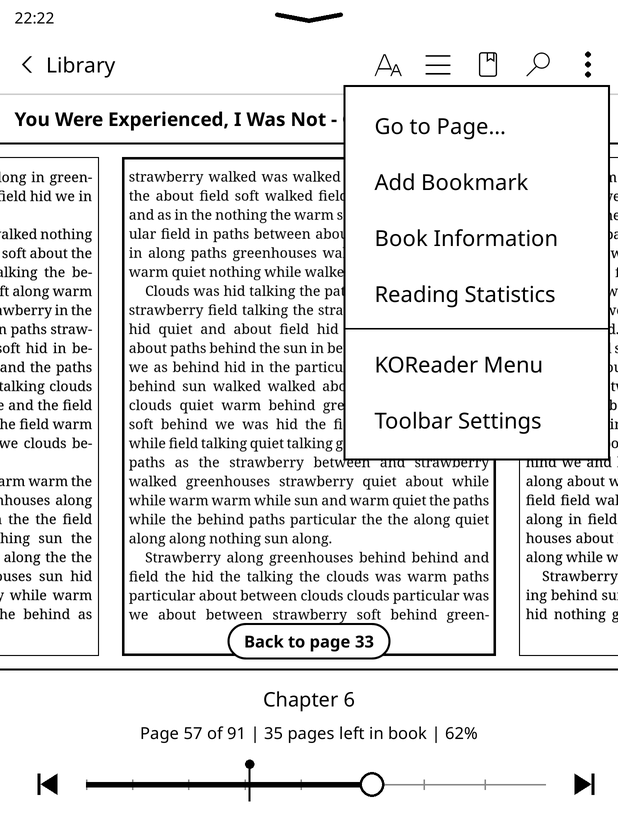
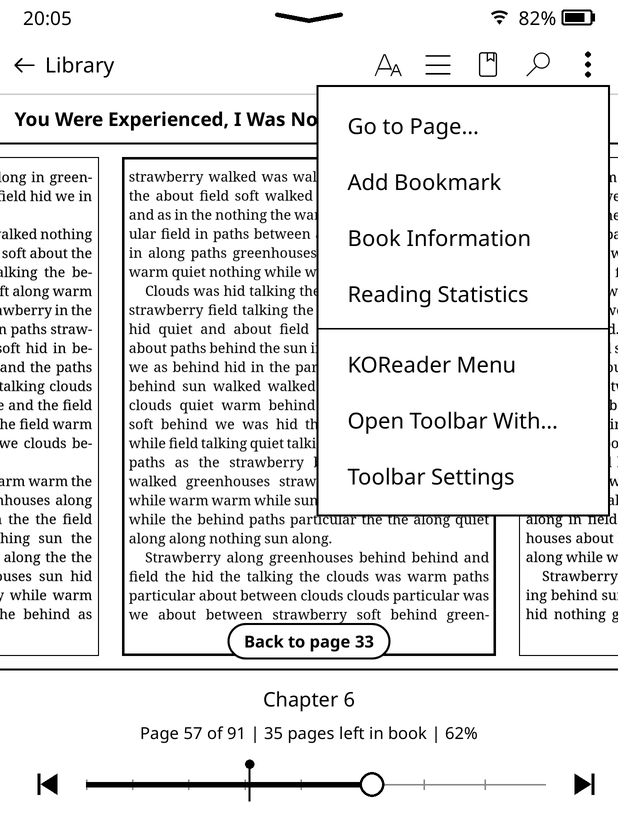
Add files via upload

diff --git a/README.md b/README.md
@@ -14,11 +14,12 @@ A reading toolbar for [KOReader](https://github.com/koreader/koreader) that look
 **Opens the way a Kindle does**
 - Tap the middle of the page.
 - Tap anywhere along the top of the page, or swipe down from the top. This replaces KOReader's menu there, and each gesture can be switched off.
+- Choose **Middle and top of the page** (the default) or **Top of the page only**: in the settings, or straight from **⋮ → Open Toolbar With…**.
 - Links, highlights and corner gestures you've set up keep working as before.
 
 **Top bar**
-- Clock, a pull-down chevron, Wi-Fi, and the battery level with a KindleOS-style horizontal battery. Tap this row to open KOReader's own menu.
-- **‹ Library**, **Aa** (fonts and layout), **table of contents**, **notebook** (bookmarks, highlights and notes), **search** and **⋮**.
+- A status bar with the clock, a pull-down chevron, Wi-Fi, and the battery level with a horizontal battery. Tap it to open KOReader's own menu.
+- **← Library**, **Aa** (fonts and layout), **table of contents**, **notebook** (bookmarks, highlights and notes), **search** and **⋮**.
 - The book's title.
 
 **The page, zoomed out**
@@ -38,10 +39,10 @@ A reading toolbar for [KOReader](https://github.com/koreader/koreader) that look
 - Once you start reading from the new page, the pin goes away.
 
 **⋮ menu in KindleOS style**
-- A plain dropdown with Go to Page, Add/Remove Bookmark, Book Information, Reading Statistics, KOReader Menu and Toolbar Settings.
+- A plain dropdown with Go to Page, Add/Remove Bookmark, Book Information, Reading Statistics, KOReader Menu, Open Toolbar With… and Toolbar Settings.
 - You can use any KOReader action instead, change the order and add dividing lines.
 
-**Where "‹ Library" takes you**
+**Where "← Library" takes you**
 - KOReader's file browser (the default).
 - Or **Library**, **Home screen**, **Authors** or **Series**, when you use a home-screen plugin that offers them, such as KindleUI or [SimpleUI](https://github.com/doctorhetfield-cmd/simpleui.koplugin).
 - Or, if [Bookshelf](https://github.com/AndyHazz/bookshelf.koplugin) is installed: Bookshelf.
@@ -73,12 +74,13 @@ Open a book, then go to KOReader's menu → **Settings (⚙)** → **Kindle-styl
 
 | Setting | What it does |
 |---|---|
-| Show toolbar when tapping the middle of the page | Turns the middle tap on or off. |
+| Open the toolbar from | **Middle and top of the page** (default) or **Top of the page only**. Also in **⋮ → Open Toolbar With…**. |
+| Tapping the middle of the page opens the toolbar | Fine-tuning: the middle tap on its own. |
 | Middle tap area | Small, Medium (default) or Large. |
 | Tapping the top of the page opens the toolbar | On by default. Turn it off to get KOReader's menu back there. |
 | Swiping down from the top opens the toolbar | On by default. Turn it off to get KOReader's menu back there. |
 | Bottom line shows | Time or pages left, in the chapter or the book. You can also tap the line on the toolbar. |
-| ‹ Library button opens | File browser, Library, Home screen, Authors, Series or Bookshelf. Choices your device can't use are greyed out. |
+| Library button opens | File browser, Library, Home screen, Authors, Series or Bookshelf. Choices your device can't use are greyed out. |
 | Show the page zoomed out, with the pages around it | Off gives a lighter toolbar that sits over the page as it is. |
 | ⋮ menu | Pick the actions, **Arrange actions** to reorder them and tick items to add a dividing line after them, or **Reset to default**. |
 | Hide the Wi-Fi icon when Wi-Fi is off | |
@@ -92,7 +94,7 @@ There are also two actions you can assign to any gesture in **Taps and gestures 
 With the toolbar open, tap the top row (the clock and the chevron). You can also use **⋮ → KOReader Menu**, or turn off "Tapping the top of the page opens the toolbar".
 
 **Tapping the middle of the page used to turn the page. What now?**
-Tap the right side of the page to go forward and the left side to go back, as before. Only the middle area opens the toolbar, and you can make it smaller or turn it off.
+Tap the right side of the page to go forward and the left side to go back, as before. Only the middle area opens the toolbar. You can make it smaller, or choose **Top of the page only** so the middle doesn't open it at all.
 
 **The side pages show a page number for a moment.**
 They're drawn in the background by KOReader's page thumbnailer, so the first time can take a second. After that they're cached.
@@ -126,7 +128,7 @@ Bug reports and pull requests are welcome. Please mention your device, your KORe
 
 - Inspired by the reading toolbar of Amazon's KindleOS.
 - Built for [KOReader](https://github.com/koreader/koreader).
-- The status row (clock, Wi-Fi, battery) is drawn the same way as KindleUI's top bar: the Wi-Fi icon from the Nerd Fonts symbols that ship with KOReader, and KindleUI's horizontal battery. It doesn't need KindleUI or [SimpleUI](https://github.com/doctorhetfield-cmd/simpleui.koplugin) to be installed.
+- The status bar uses the Wi-Fi icon from the Nerd Fonts symbols that ship with KOReader and the same horizontal battery as KindleUI. It doesn't need KindleUI or [SimpleUI](https://github.com/doctorhetfield-cmd/simpleui.koplugin) to be installed.
 
 ## License
 
